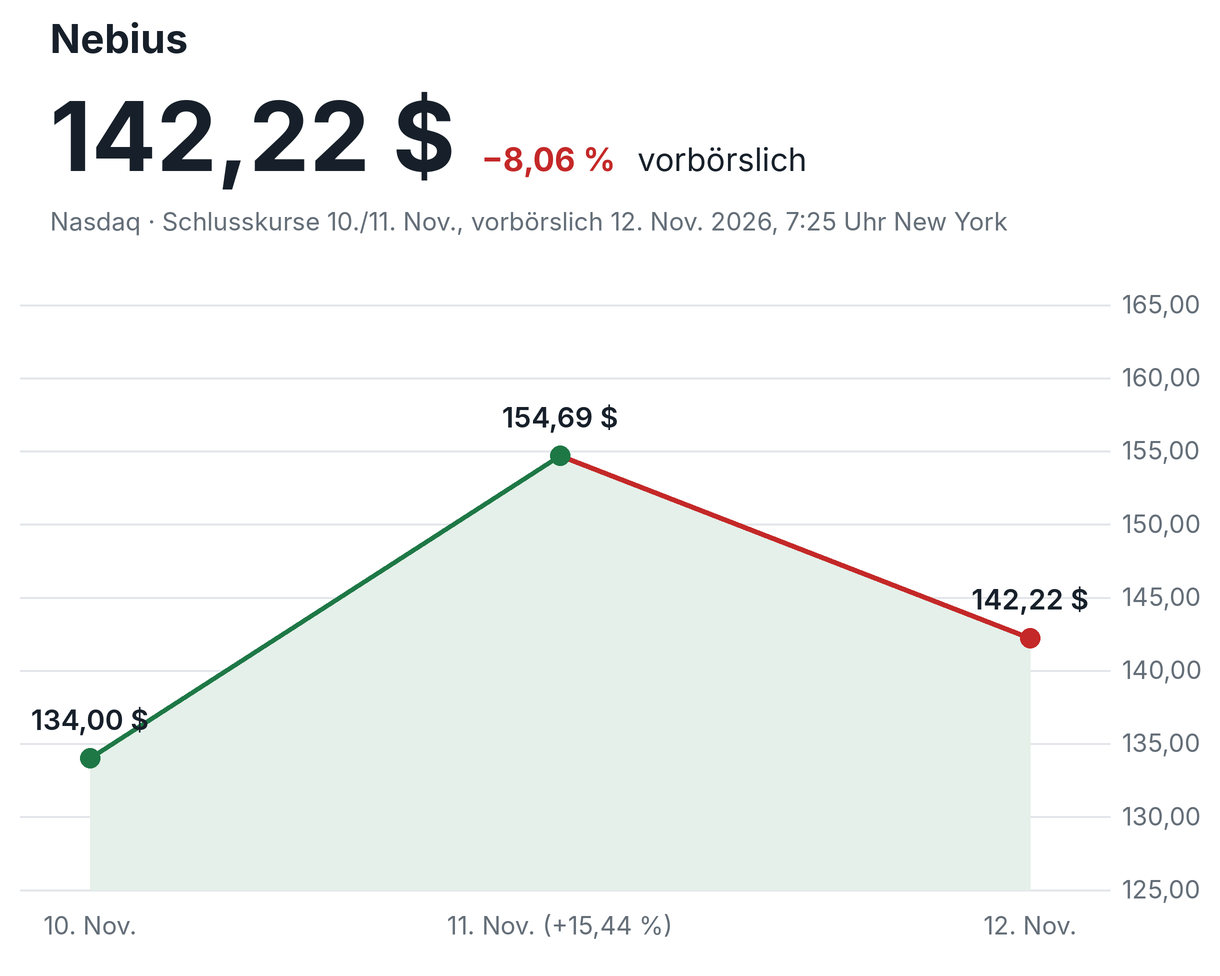
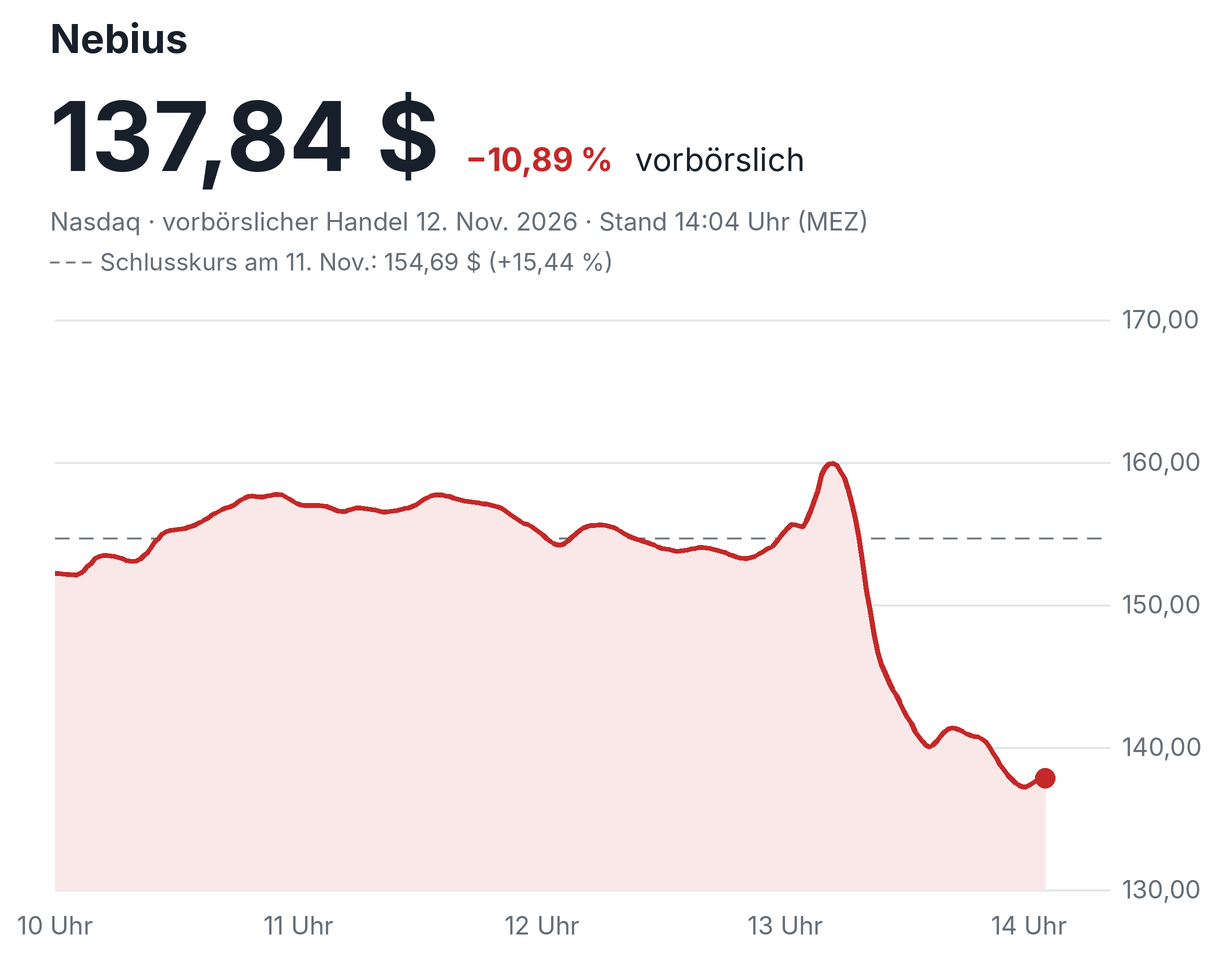
Nebius Q3 2026: Kursbild mit vorbörslichem Absturz, KI-Cloud-Werte im Text
Claude-Session: https://claude.ai/code/session_01AtTL9pnueXtcVNaHis4wgr

diff --git a/content/magazin/79738887_2026-11-12/8739_1345-nebius-q3-2026-umsatz-prognose-verzoegerungen.md b/content/magazin/79738887_2026-11-12/8739_1345-nebius-q3-2026-umsatz-prognose-verzoegerungen.md
@@ -8,7 +8,7 @@ category: Quartalszahlen
 aufmacher: ja
 story_image: assets/magazin/nebius-q3-2026-kennzahlen.jpg
 story_chart: assets/magazin/nebius-q3-2026-kurs.png
-story_text: "Nebius hat im dritten Quartal 981 Mio. Dollar umgesetzt, fast siebenmal so viel wie vor einem Jahr und rund 8 % über der Schätzung. Rund 325 Mio. davon sind allerdings eine einmalige Zahlung aus dem neuen Partnermodell, ohne sie läge der Umsatz deutlich unter den Erwartungen.\nDas Kerngeschäft wird trotzdem besser: Kunden zahlen rund 20 % höhere Preise je GPU-Stunde und überweisen bei neuen Verträgen mehr vorab, als Nebius für den Bau der Kapazität ausgibt. Mit Databricks, Datadog und Snowflake kommen erstmals große Softwarekonzerne dazu. Bremsend wirken Rechenzentren von Partnern, vor allem in New Jersey für Microsoft, deren Fertigstellung ins Jahr 2027 rutscht.\nFür 2026 erwartet Nebius deshalb nur noch das untere Ende der Spanne von 3,0 bis 3,4 Mrd. Dollar. 2027 sollen es 12 bis 13 Mrd. werden, bei Investitionen von 40 bis 45 Mrd. Dollar. Die Gewinnschwelle vor Steuern peilt Nebius für Ende 2027 an, eine Dividende zahlt der Konzern nicht."
+story_text: "Nebius hat im dritten Quartal 981 Mio. Dollar umgesetzt, fast siebenmal so viel wie vor einem Jahr und rund 8 % über der Schätzung. Rund 325 Mio. davon sind allerdings eine einmalige Zahlung aus dem neuen Partnermodell, ohne sie läge der Umsatz deutlich unter den Erwartungen.\nDas Kerngeschäft wird trotzdem besser: Kunden zahlen rund 20 % höhere Preise je GPU-Stunde und überweisen bei neuen Verträgen mehr vorab, als Nebius für den Bau der Kapazität ausgibt. Mit Databricks, Datadog und Snowflake kommen erstmals große Softwarekonzerne dazu. Bremsend wirken Rechenzentren von Partnern, vor allem in New Jersey für Microsoft, deren Fertigstellung ins Jahr 2027 rutscht.\nFür 2026 erwartet Nebius deshalb nur noch das untere Ende der Spanne von 3,0 bis 3,4 Mrd. Dollar. 2027 sollen es 12 bis 13 Mrd. werden, bei Investitionen von 40 bis 45 Mrd. Dollar. Die Gewinnschwelle vor Steuern peilt Nebius für Ende 2027 an. Mit den Zahlen geben auch andere KI-Cloud-Werte wie CoreWeave nach, die am Vortag noch kräftig gestiegen waren."
 logo_name: "Nebius"
 logo_symbol: NBIS
 logo_domain: nebius.com
@@ -20,7 +20,7 @@ image_lizenz: Pressebild
 logo_file: assets/logos/nbis.png
 ---
 <!-- PRÜFEN: Alle Unternehmenszahlen aus dem Aktionärsbrief Q3 2026 (Letter to shareholders, 12.11.2026) und der Ergebnismitteilung "Nebius reports third quarter 2026 financial results" vom 12.11.2026 mit Bilanz, GuV und Kapitalflussrechnung; beides von Divi geliefert. -->
-<!-- PRÜFEN: Konsens Umsatz rund 907,5 Mio. Dollar und Erwartung eines Verlusts: scanx.trade und marketscreener.com (Vorschau vom 11./12.11.2026), nicht aus den Unternehmensunterlagen. Kursrückgang seit dem Hoch (rund 47 %) aus Benzinga-Vorschau, Monatsminus rund 39 % aus marketscreener. Kurse (Schluss 10.11. 134,00 $, Schluss 11.11. 154,69 $ = +15,44 %, vorbörslich 12.11. 7:25 Uhr New York 142,22 $ = −8,06 %) aus Divis Yahoo-Screenshot; Kursbild daraus nachgebaut, nur drei echte Datenpunkte, keine erfundene Kurve. -->
+<!-- PRÜFEN: Konsens Umsatz rund 907,5 Mio. Dollar und Erwartung eines Verlusts: scanx.trade und marketscreener.com (Vorschau vom 11./12.11.2026), nicht aus den Unternehmensunterlagen. Kursrückgang seit dem Hoch (rund 47 %) aus Benzinga-Vorschau, Monatsminus rund 39 % aus marketscreener. Kurse (Schluss 11.11. 154,69 $ = +15,44 %, vorbörslich 12.11. 8:04 Uhr New York / 14:04 MEZ 137,84 $ = −10,89 %) aus Divis Yahoo-Screenshots. Kursbild: vorbörslicher Verlauf aus dem Screenshot nachgezeichnet (Linie aus den Bildpunkten gelesen, an Achse 162 $ und Endkurs geeicht), Zwischenwerte daher nur ungefähr. CoreWeave-Vortagesplus (fast 25 %) und vorbörsliche Verluste von CoreWeave, Nebius und IREN ohne Prozentangabe sowie Nvidia/Huang als Belastung: TipRanks vom 12.11.2026. -->
 <!-- PRÜFEN: Selbst gerechnet: Umsatz ohne Partner-Einmalerlös 980,8 − 325 = rund 656 Mio.; Q2-Umsatz aus +68 % zum Vorquartal rückgerechnet (rund 584 Mio.), ohne Einmalerlös also rund +12 % zum Vorquartal; Abstand zum Konsens +8 % mit, −28 % ohne Einmalerlös; rechnerischer Q4-Umsatz 3,0 Mrd. − 1,96 Mrd. = rund 1,04 Mrd.; Finanzschulden 187,5 + 14.003,3 = 14,2 Mrd. (Jahresende 2025: 4,1 Mrd.); Rechnungsabgrenzung 1.445,5 + 7.963,7 = 9,4 Mrd.; verwässerte Aktienzahl 298,0 Mio. gegenüber 241,1 Mio. = +24 %. -->
 <!-- PRÜFEN: Kein CEO-Foto von Divi (Arkady Volozh), das kleine Porträt im Aktionärsbrief ist zu klein für einen sauberen Freisteller; Story daher mit Folie und Kursbild. Aufmacher: von Divi geliefertes Foto eines Nebius-Rechenzentrums, als Pressebild markiert; genaue Bildquelle bitte nachtragen. Logo holt der Build über logo_symbol/logo_domain. Diese Aufmacher-Markierung ersetzt die bei Hapag-Lloyd. -->
 
@@ -38,7 +38,11 @@ Bei Nebius gehört der Superlativ inzwischen zum Quartalsbericht. 981 Millionen 
 
 Der Überschuss über die Schätzung hat allerdings eine Fußnote, die über die Bewertung des Quartals entscheidet. Rund 325 Millionen Dollar stammen aus einem sogenannten Asset-Light-Modell: Partner bauen und bezahlen Rechenzentren selbst und betreiben darauf die Technik und Cloud-Software von Nebius. Für die Freischaltung der ersten Phase verbucht Nebius einen einmaligen Erlös. Ohne diesen Betrag bleiben rund 656 Millionen Dollar, gut ein Viertel unter dem Konsens und nur rund 12 % mehr als im zweiten Quartal. Nebius rechnet damit, dass solche Erlöse mit wachsendem Partnernetz regelmäßiger werden.
 
-Die Börse sieht das vorsichtig. Vorbörslich gab die Aktie um rund 8 % nach, nachdem sie am Vortag im Sog der Zahlen von CoreWeave um gut 15 % gestiegen war. Seit dem Hoch hat sie fast die Hälfte ihres Werts verloren.
+Die Börse reagiert deutlich. Unmittelbar nach der Veröffentlichung stieg die Aktie vorbörslich noch kurz, dann rutschte sie ab und lag gegen 14 Uhr deutscher Zeit fast 11 % unter dem Schlusskurs vom Vortag. Am Mittwoch war sie im Sog der Zahlen von CoreWeave noch um gut 15 % gestiegen. Seit dem Hoch hat sie fast die Hälfte ihres Werts verloren.
+
+![Nebius: Aktienkurs im vorbörslichen Handel am 12. November 2026](/assets/magazin/nebius-q3-2026-kurs.png)
+
+Mit Nebius geben auch andere Anbieter von KI-Rechenleistung nach. CoreWeave, am Mittwoch nach eigenen starken Zahlen um fast 25 % gestiegen, verliert vorbörslich ebenfalls, ebenso IREN. Die Zahlen von Nebius sind dabei ein Auslöser unter mehreren: Ein Teil ist Gewinnmitnahme nach dem Kurssprung vom Vortag, und die Berichte über eine Untersuchung rund um Nvidia-Chef Jensen Huang belasten den gesamten Sektor, weil Nvidia die Chips für alle diese Rechenzentren liefert.
 
 ## Die Zahlen im Überblick
 
@@ -98,4 +102,5 @@ Entscheidend sind die kommenden Wochen in New Jersey: Nebius erwartet dort zusä
 - [Nebius Investor Hub](https://nebius.com/investor-hub)
 - [Marketscreener: Nebius, the race for gigawatts in Q3](https://www.marketscreener.com/news/nebius-the-race-for-gigawatts-in-q3-ce785ed8db8fff23)
 - [scanx.trade: Nebius Group Q3 Preview](https://scanx.trade/stock-market-news/companies/nebius-group-q3-preview-revenue-seen-907-53m-eps-loss-widens/55965498)
+- [TipRanks: Why CoreWeave, Nebius, and IREN Stocks Are Falling in Premarket Trading Today](https://www.tipranks.com/news/why-coreweave-nebius-and-iren-stocks-are-falling-in-premarket-trading-today)
 - [Benzinga: Nebius Q3 Preview](https://www.benzinga.com/trading-ideas/previews/26/11/63156890/nebius-q3-preview-stock-down-47-from-highs-market-expert-says-investors-could-get-relief-rally)
